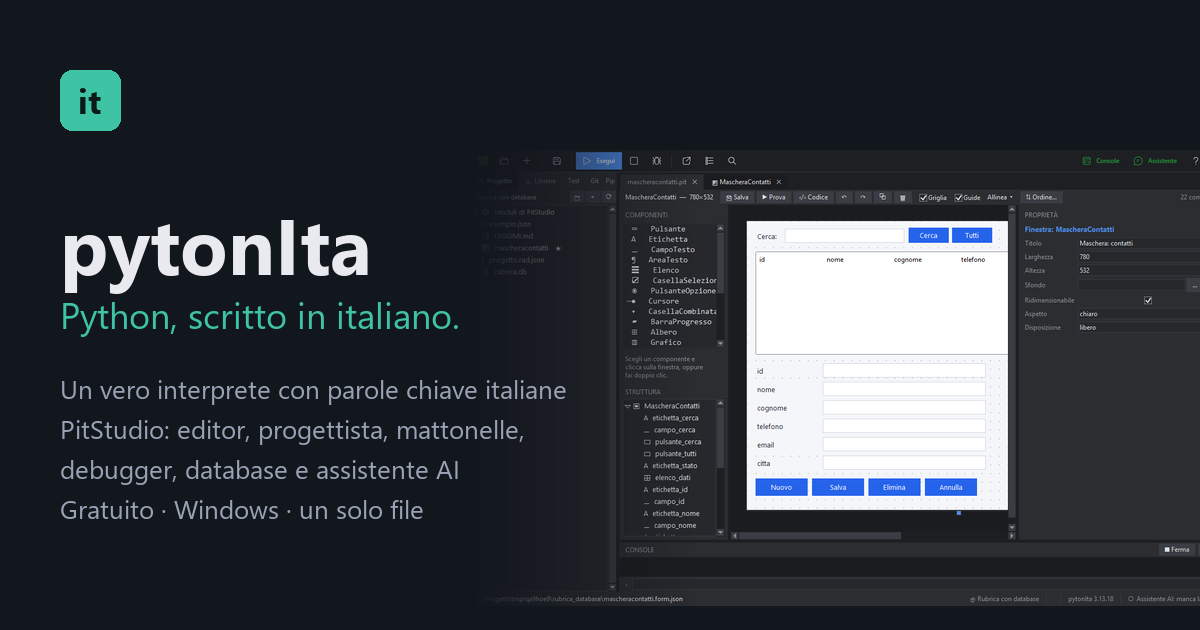
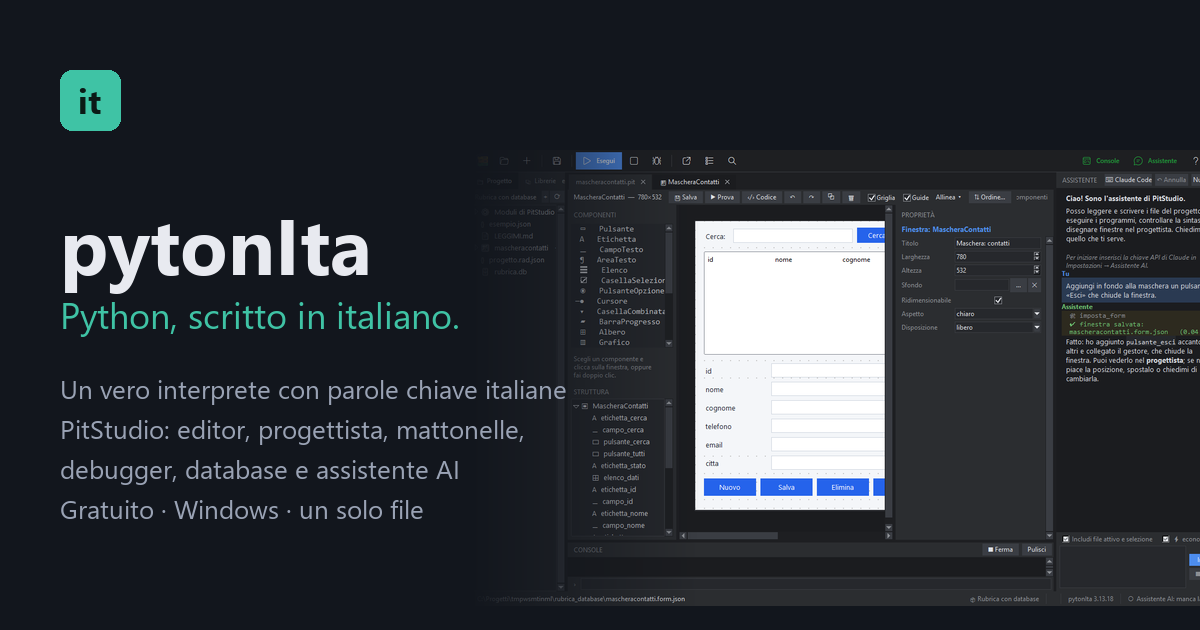
Sito: screenshot nuovi con e senza assistente (selettore nella pagina), anteprima social aggiornata; schermate_sito.pit tiene PitStudio in primo piano

diff --git a/docs/index.html b/docs/index.html
@@ -52,11 +52,13 @@
       </div>
       <p class="nota">Senza Python installato · senza diritti di amministratore · si toglie con un clic</p>
     </div>
-    <div class="vetrina fin" role="group" aria-label="PitStudio: l'editor">
-      <div class="bar"><i></i><i></i><i></i><span>PitStudio</span></div>
+    <div class="vetrina fin" data-vista="con" role="group" aria-label="PitStudio: l'editor">
+      <div class="bar"><i></i><i></i><i></i><span>PitStudio</span><div class="sel" role="group" aria-label="Mostra"><button type="button" data-v="con" aria-pressed="true">Con assistente</button><button type="button" data-v="senza" aria-pressed="false">Senza</button></div></div>
       <button class="zoom" type="button" aria-label="Ingrandisci lo screenshot">
-        <img class="solo-scuro" src="img/s-editor-scuro.png" width="1400" height="840" alt="L'editor di PitStudio: codice pytonIta colorato, suggerimenti mentre si scrive e la chat dell'assistente">
-        <img class="solo-chiaro" src="img/s-editor-chiaro.png" width="1400" height="840" alt="L'editor di PitStudio in tema chiaro">
+        <img class="solo-scuro v-con" src="img/s-editor-scuro-con.png" width="1400" height="840" alt="L'editor di PitStudio: codice pytonIta colorato e, a destra, la chat dell'assistente che propone un metodo">
+          <img class="solo-scuro v-senza" src="img/s-editor-scuro-senza.png" width="1400" height="840" alt="L'editor di PitStudio a tutta larghezza: codice colorato, console e pannello dei file">
+          <img class="solo-chiaro v-con" src="img/s-editor-chiaro-con.png" width="1400" height="840" alt="L'editor di PitStudio: codice pytonIta colorato e, a destra, la chat dell'assistente che propone un metodo (tema chiaro)">
+          <img class="solo-chiaro v-senza" src="img/s-editor-chiaro-senza.png" width="1400" height="840" alt="L'editor di PitStudio a tutta larghezza: codice colorato, console e pannello dei file (tema chiaro)">
       </button>
     </div>
   </div>
@@ -114,10 +116,12 @@
           <li>Modelli pronti: accesso, anagrafica con database, impostazioni, ricerca</li>
         </ul>
       </div>
-      <div class="fin"><div class="bar"><i></i><i></i><i></i><span>Progettista</span></div>
+      <div class="fin" data-vista="con"><div class="bar"><i></i><i></i><i></i><span>Progettista</span><div class="sel" role="group" aria-label="Mostra"><button type="button" data-v="con" aria-pressed="true">Con assistente</button><button type="button" data-v="senza" aria-pressed="false">Senza</button></div></div>
         <button class="zoom" type="button" aria-label="Ingrandisci lo screenshot">
-          <img class="solo-scuro" loading="lazy" src="img/s-progettista-scuro.png" width="1400" height="840" alt="Il progettista di finestre con la struttura ad albero dei componenti e il pannello delle proprietà">
-          <img class="solo-chiaro" loading="lazy" src="img/s-progettista-chiaro.png" width="1400" height="840" alt="Il progettista di finestre in tema chiaro">
+          <img class="solo-scuro v-con" loading="lazy" src="img/s-progettista-scuro-con.png" width="1400" height="840" alt="Il progettista di finestre con la struttura ad albero dei componenti e l'assistente che aggiunge un pulsante">
+          <img class="solo-scuro v-senza" loading="lazy" src="img/s-progettista-scuro-senza.png" width="1400" height="840" alt="Il progettista di finestre con la struttura ad albero dei componenti e il pannello delle proprietà">
+          <img class="solo-chiaro v-con" loading="lazy" src="img/s-progettista-chiaro-con.png" width="1400" height="840" alt="Il progettista di finestre con la struttura ad albero dei componenti e l'assistente che aggiunge un pulsante (tema chiaro)">
+          <img class="solo-chiaro v-senza" loading="lazy" src="img/s-progettista-chiaro-senza.png" width="1400" height="840" alt="Il progettista di finestre con la struttura ad albero dei componenti e il pannello delle proprietà (tema chiaro)">
         </button></div>
     </div>
 
@@ -145,10 +149,12 @@
           <li>Punti di arresto condizionali, logpoint e fermate quando una variabile cambia</li>
         </ul>
       </div>
-      <div class="fin"><div class="bar"><i></i><i></i><i></i><span>Debugger</span></div>
+      <div class="fin" data-vista="con"><div class="bar"><i></i><i></i><i></i><span>Debugger</span><div class="sel" role="group" aria-label="Mostra"><button type="button" data-v="con" aria-pressed="true">Con assistente</button><button type="button" data-v="senza" aria-pressed="false">Senza</button></div></div>
         <button class="zoom" type="button" aria-label="Ingrandisci lo screenshot">
-          <img class="solo-scuro" loading="lazy" src="img/s-debugger-scuro.png" width="1400" height="840" alt="Il debugger con il disegno della memoria: due nomi puntano alla stessa lista">
-          <img class="solo-chiaro" loading="lazy" src="img/s-debugger-chiaro.png" width="1400" height="840" alt="Il debugger in tema chiaro">
+          <img class="solo-scuro v-con" loading="lazy" src="img/s-debugger-scuro-con.png" width="1400" height="840" alt="Il debugger con il disegno della memoria e l'assistente che spiega perché due nomi cambiano insieme">
+          <img class="solo-scuro v-senza" loading="lazy" src="img/s-debugger-scuro-senza.png" width="1400" height="840" alt="Il debugger con il disegno della memoria: due nomi puntano alla stessa lista">
+          <img class="solo-chiaro v-con" loading="lazy" src="img/s-debugger-chiaro-con.png" width="1400" height="840" alt="Il debugger con il disegno della memoria e l'assistente che spiega perché due nomi cambiano insieme (tema chiaro)">
+          <img class="solo-chiaro v-senza" loading="lazy" src="img/s-debugger-chiaro-senza.png" width="1400" height="840" alt="Il debugger con il disegno della memoria: due nomi puntano alla stessa lista (tema chiaro)">
         </button></div>
     </div>
 

diff --git a/docs/sito.js b/docs/sito.js
@@ -24,11 +24,20 @@
   document.addEventListener("click", function (e) {
     var b = e.target.closest("button.zoom");
     if (!b || !dlg.showModal) return;
-    var img = b.querySelector("img");
+    var img = [].filter.call(b.querySelectorAll("img"), function (x) { return x.offsetParent !== null; })[0] || b.querySelector("img");
     var im = dlg.querySelector("img");
     im.src = img.currentSrc || img.src;
     im.alt = img.alt;
     dlg.showModal();
+  });
+
+  /* ---- selettore «con / senza assistente» ---- */
+  document.querySelectorAll(".fin .sel button").forEach(function (b) {
+    b.addEventListener("click", function () {
+      var f = b.closest(".fin");
+      f.setAttribute("data-vista", b.getAttribute("data-v"));
+      f.querySelectorAll(".sel button").forEach(function (x) { x.setAttribute("aria-pressed", x === b ? "true" : "false"); });
+    });
   });
 
   /* ---- dati dell'ultima versione (pagina di download) ---- */

diff --git a/docs/stile.css b/docs/stile.css
@@ -172,3 +172,10 @@ footer a{color:var(--mut)}
 footer a:hover{color:var(--acc)}
 .fine{margin-top:26px;padding-top:18px;border-top:1px solid var(--line);font-size:.86rem}
 .caricamento{color:var(--mut)}
+
+/* selettore «con / senza assistente» nella barra della finestra */
+.fin .bar .sel{margin-left:auto;display:flex;gap:2px;background:var(--bg);border:1px solid var(--line);border-radius:99px;padding:2px}
+.fin .bar .sel button{border:0;background:transparent;color:var(--mut);font:inherit;font-size:.78rem;padding:3px 11px;border-radius:99px;cursor:pointer}
+.fin .bar .sel button[aria-pressed="true"]{background:var(--acc);color:var(--onacc);font-weight:600}
+.fin .bar .sel button:not([aria-pressed="true"]):hover{color:var(--fg)}
+.fin[data-vista="con"] .v-senza,.fin[data-vista="senza"] .v-con{display:none!important}
